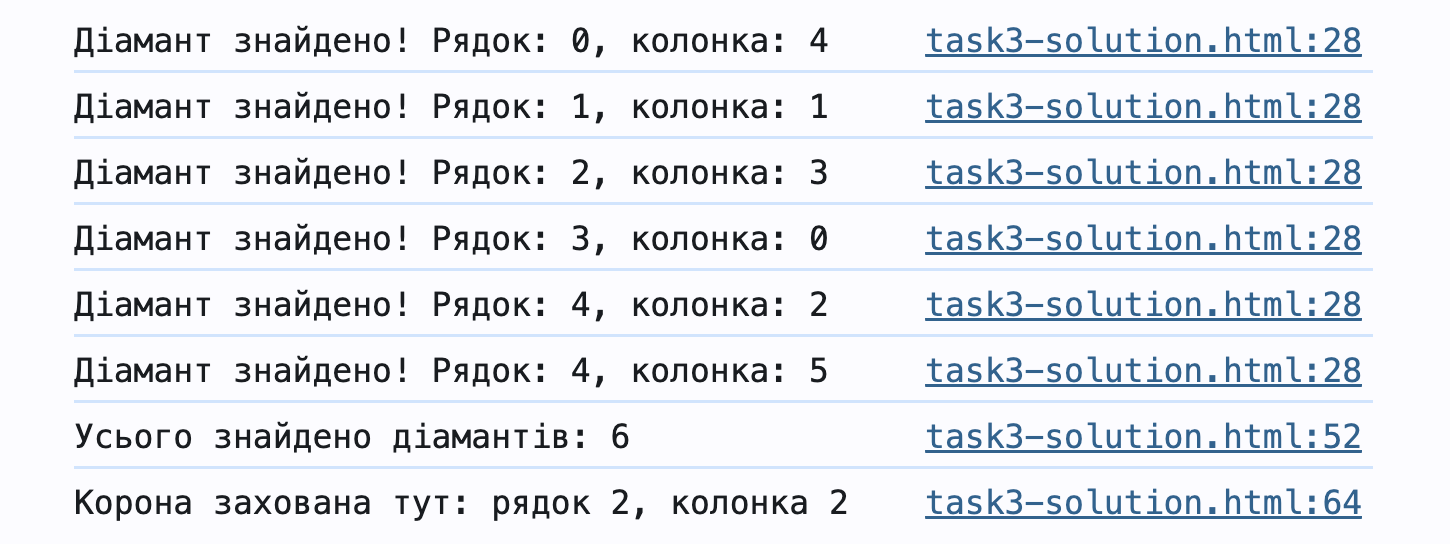
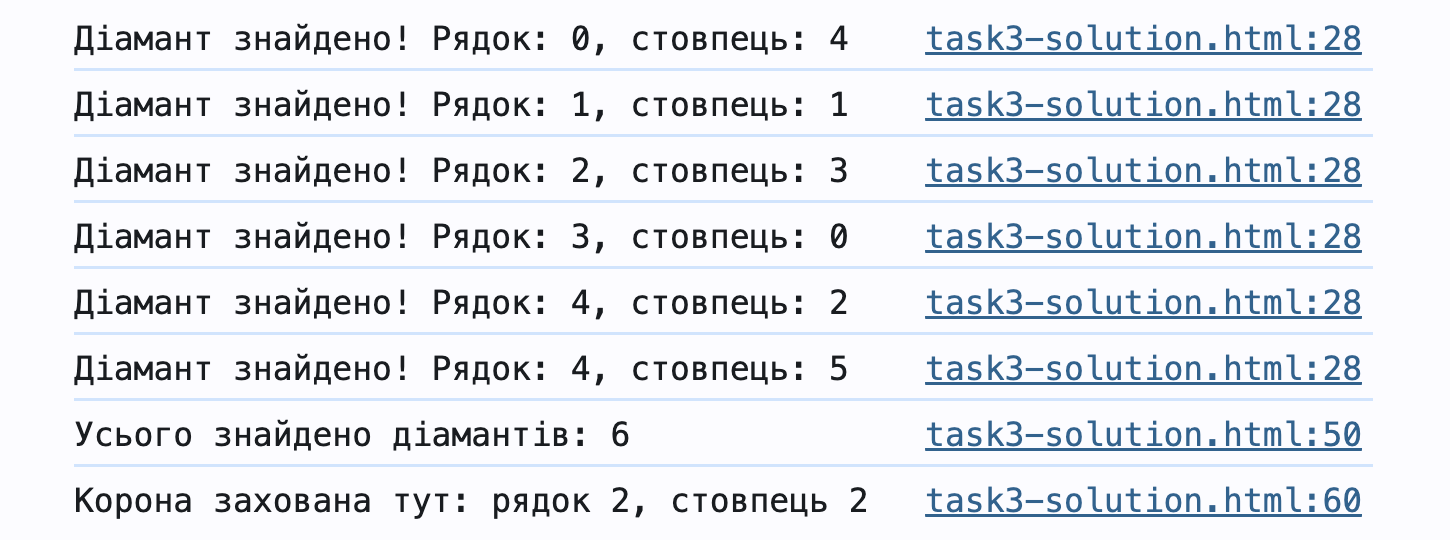
.

diff --git a/task3-solution.html b/task3-solution.html
@@ -30,8 +30,6 @@
         }
       }
 
-    //   console.log("------------------"); // Розділювач для красивої консолі
-
       // ✦ - ✦ - ✦ - ✦ - ✦ - ✦ - ✦ - ✦ - ✦ - ✦
       // ЗАВДАННЯ 3.2: Підрахунок запасів (Цикл for...of)
       // ✦ - ✦ - ✦ - ✦ - ✦ - ✦ - ✦ - ✦ - ✦ - ✦
@@ -50,8 +48,6 @@
 
       // Виводимо загальну кількість після завершення обох циклів
       console.log(`Усього знайдено діамантів: ${diamondsCount}`);
-
-    //   console.log("------------------");
 
       // ✦ - ✦ - ✦ - ✦ - ✦ - ✦ - ✦ - ✦ - ✦ - ✦
       // ЗАВДАННЯ 3.3: Пошук Корони (Метод forEach)

diff --git a/index.html b/index.html
@@ -896,7 +896,7 @@ console.log("Стовпців:", treasureMap[0].length);</code></pre>
   ["🍋", "🍊", "🥝"],
 ];</code></pre>
 
-            <pre><code class="language-javascript nocopy">// Перебираємо рядки
+            <pre><code class="language-javascript nocopy">// Перебираємо тільки рядки
 for (let row = 0; row < fruits.length; row++) {
   console.log(`Рядок ${row}:`, fruits[row]);
 }</code></pre>